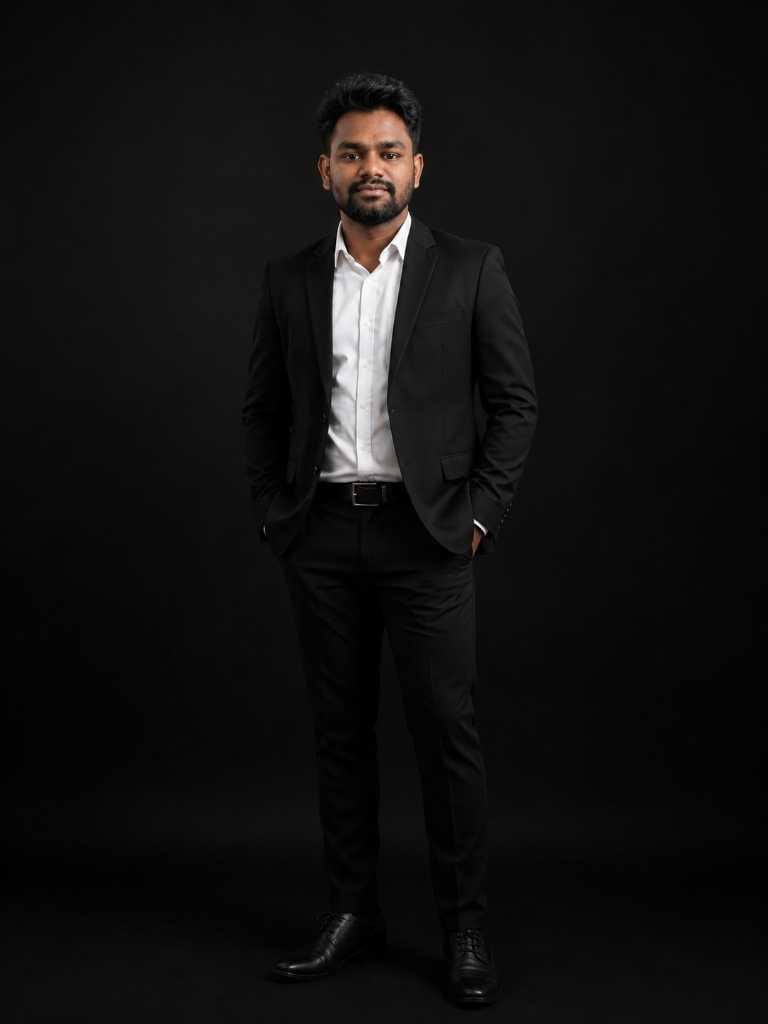
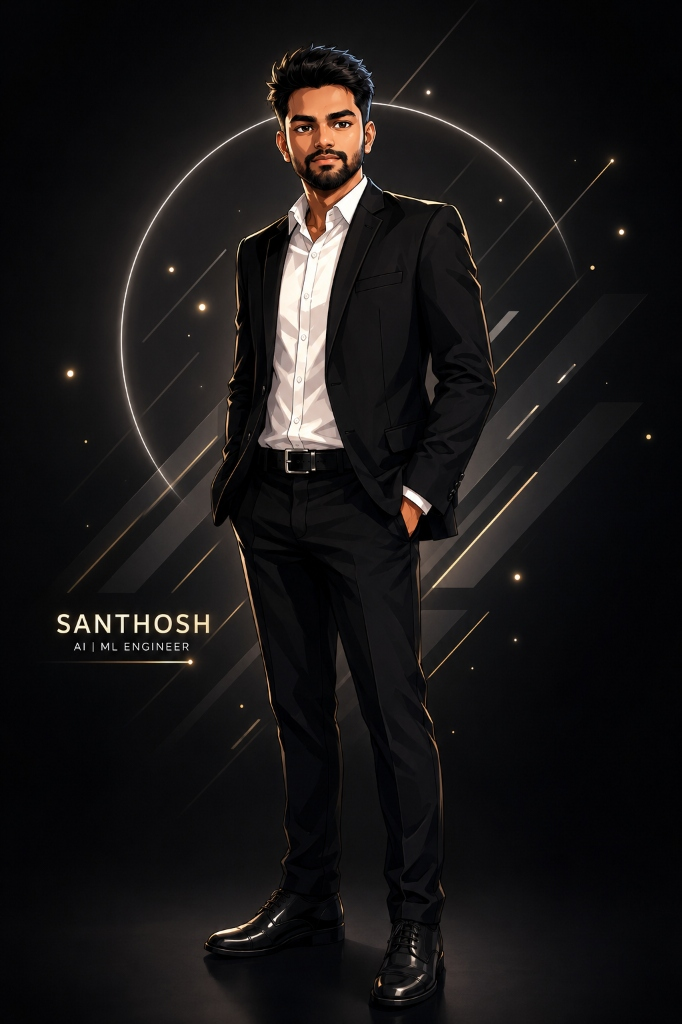
feat: use new AI/ML Engineer profile illustration and remove grayscale effect

diff --git a/src/components/About.jsx b/src/components/About.jsx
@@ -67,7 +67,7 @@ const About = () => {
               <img 
                 src={`${import.meta.env.BASE_URL}images/User.png`}
                 alt="A. Santhosh" 
-                className="w-full h-auto object-cover filter grayscale hover:grayscale-0 transition-all duration-700 rounded-2xl"
+                className="w-full h-auto object-cover rounded-2xl"
               />
             </div>
           </motion.div>